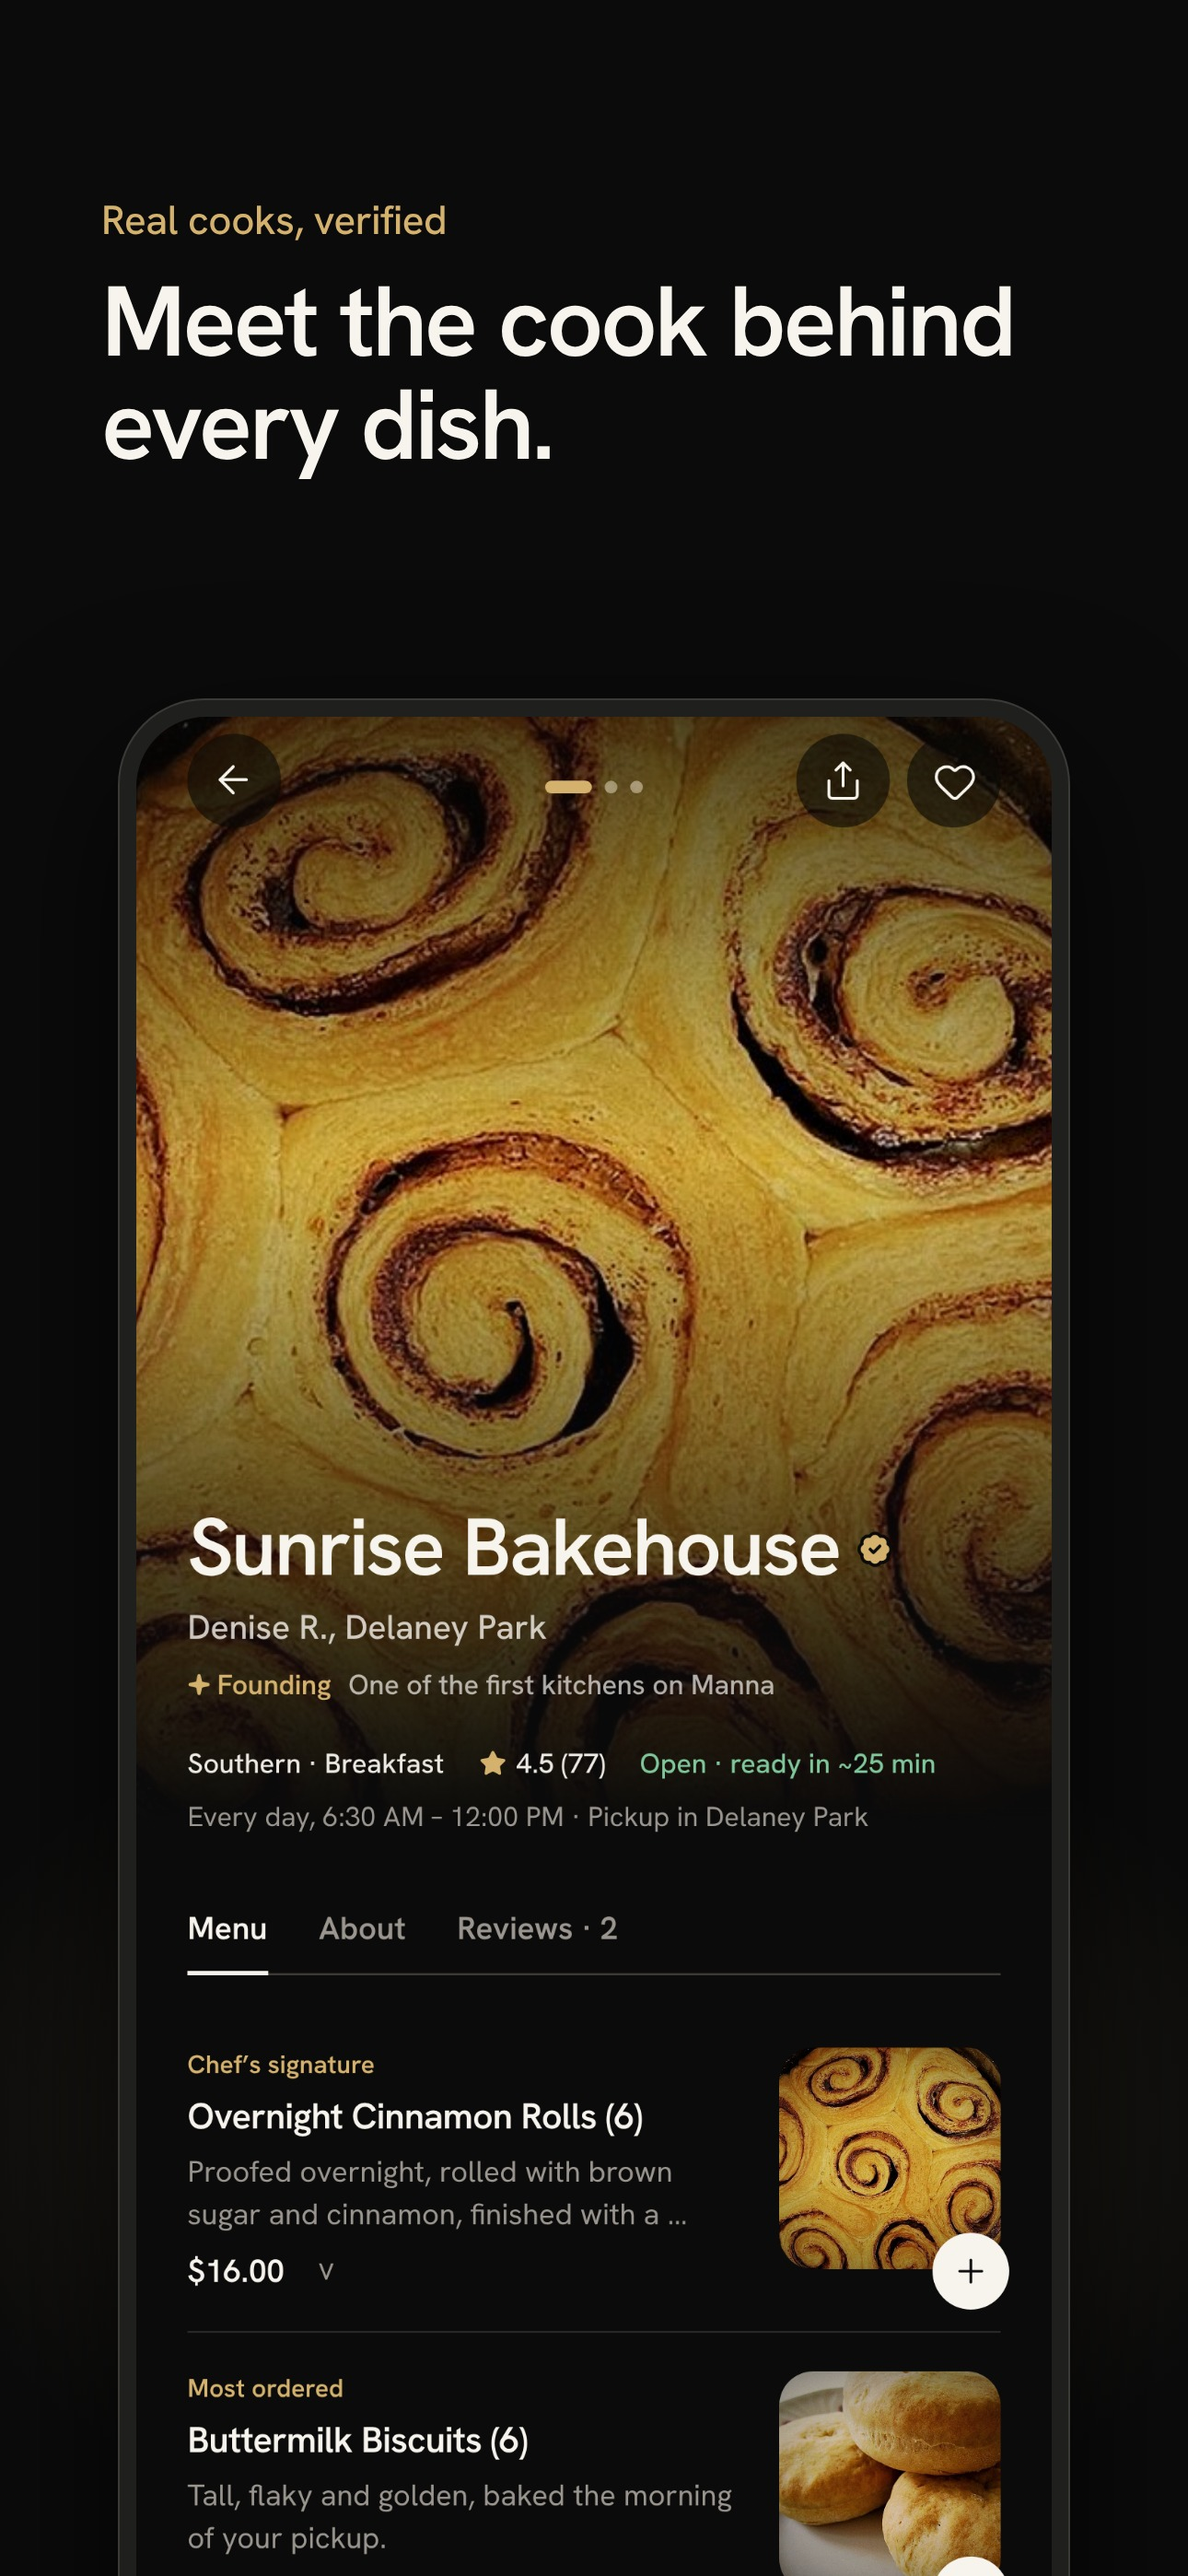
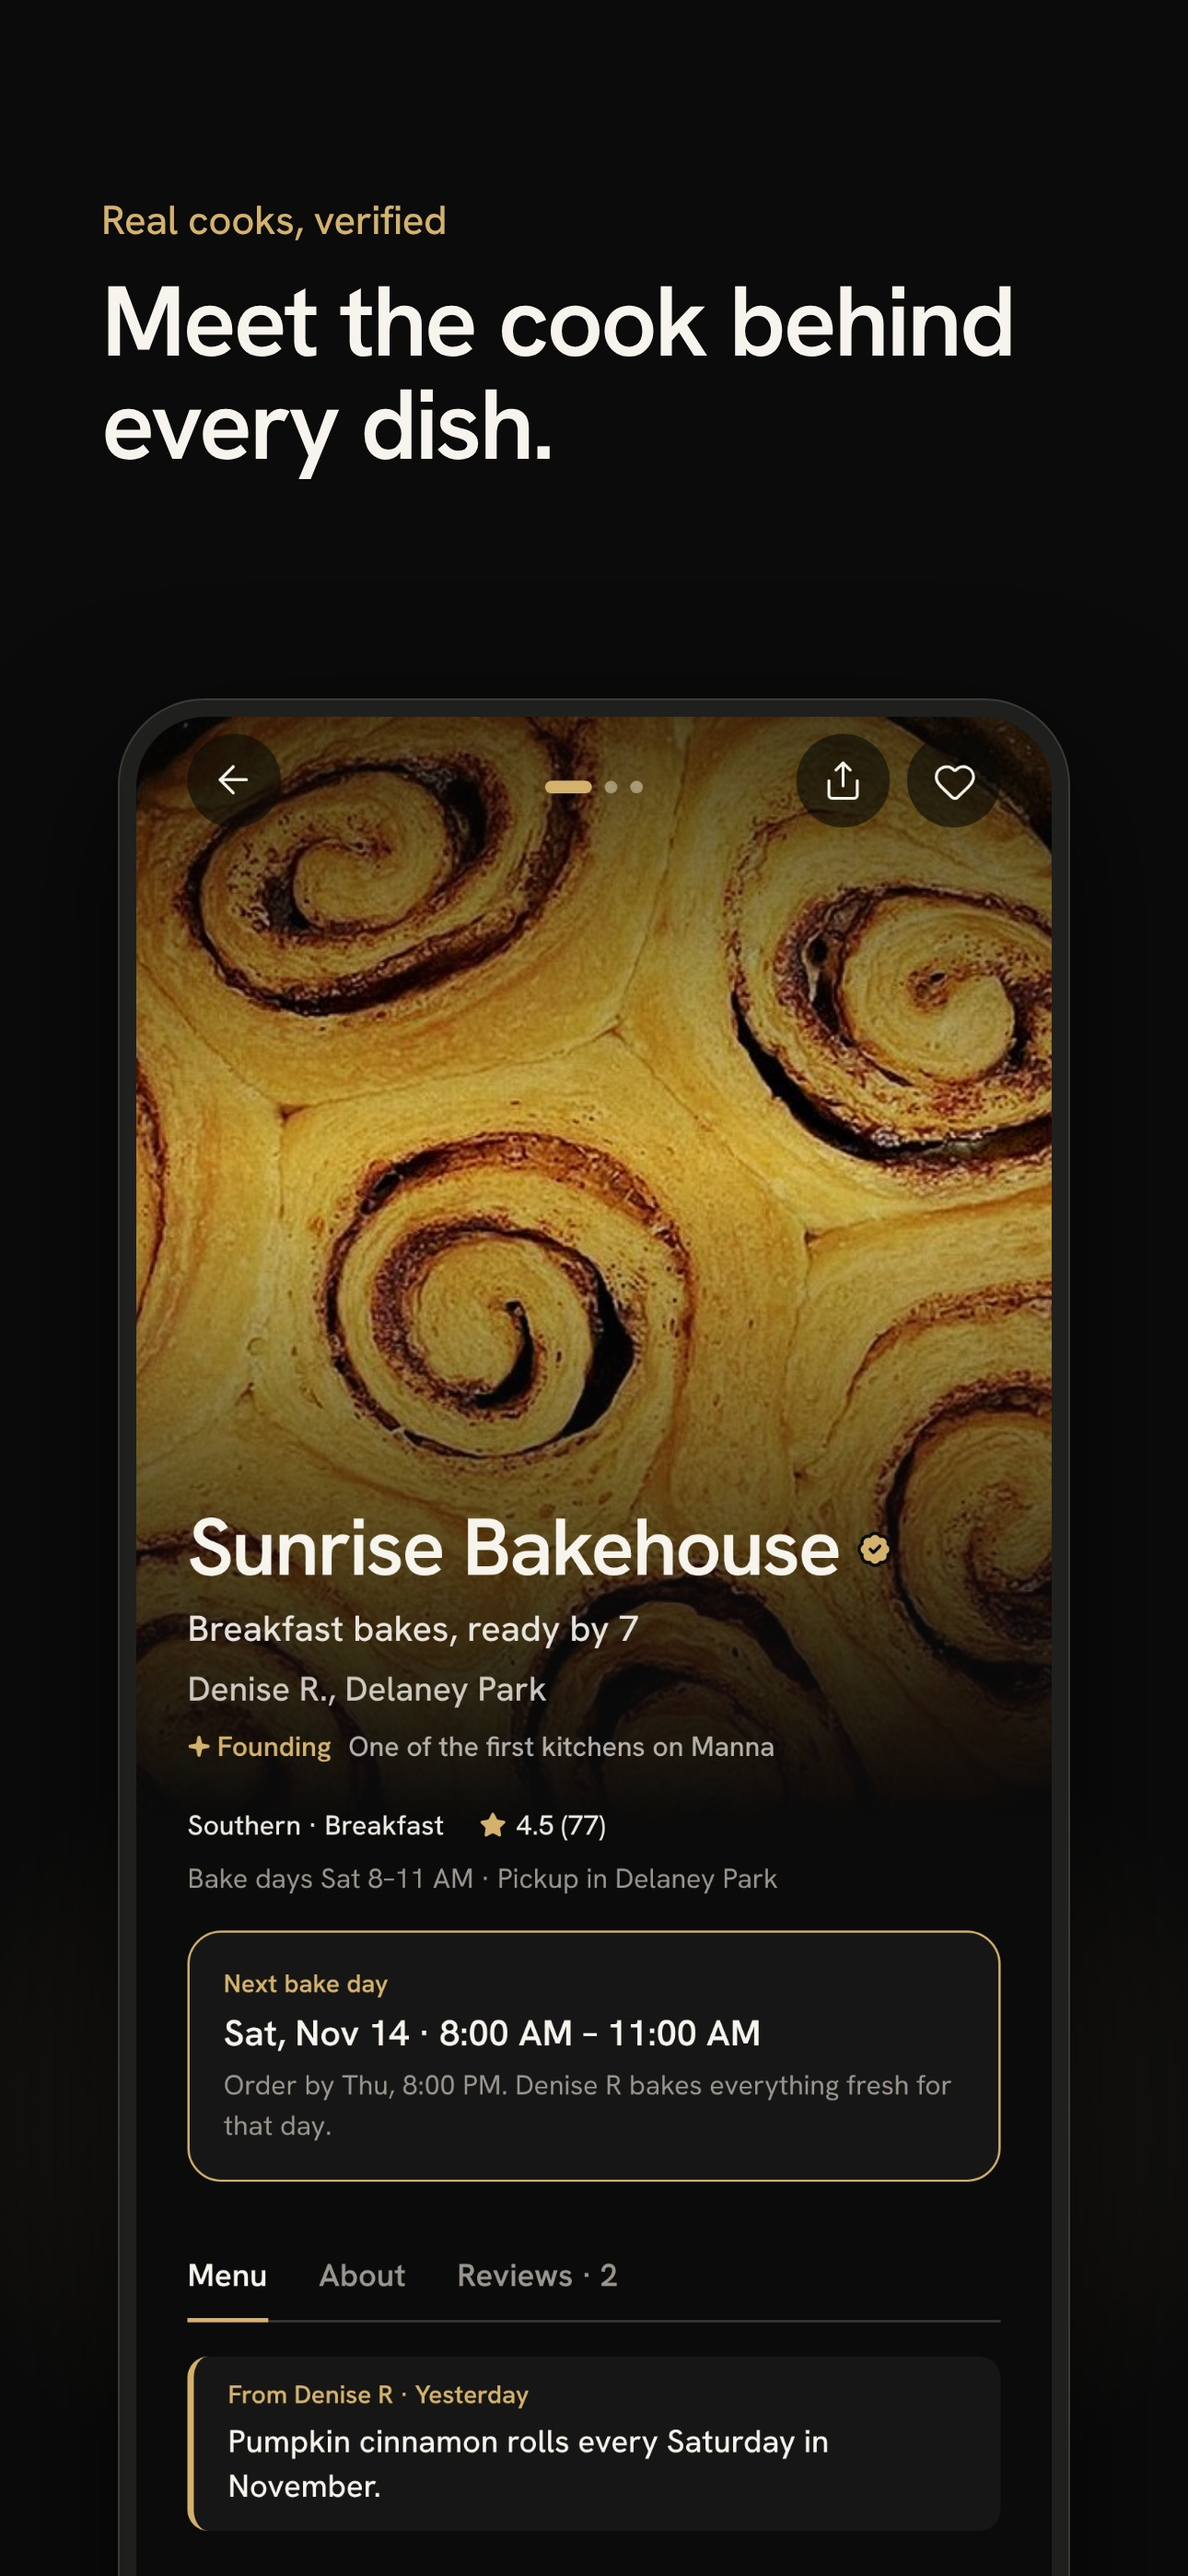
Store listing and screenshots: bake days and personalized kitchens
Claude-Session: https://claude.ai/code/session_011wALiCWwyWzSnWzUUk7f3D

Changed region(s): [[0.155, 0.6223, 0.8682, 1.0], [0.4961, 0.9335, 0.5271, 0.9646]]

diff --git a/store/capture.js b/store/capture.js
@@ -56,7 +56,7 @@ const NOW = new Date('2026-11-07T10:40:00-05:00'); // A Saturday morning, when m
   await page.mouse.move(215, 600);
   await page.mouse.wheel(0, 900);
   await shot('07-cart-total', 900);
-  await visible(page.getByRole('button', { name: /^(Place order|Schedule pickup)/ })).click();
+  await visible(page.getByRole('button', { name: /^(Place order|Schedule pickup|Order for)/ })).click();
   await page.waitForTimeout(1500);
   // Move the order along so tracking shows progress.
   const url = page.url();
@@ -69,6 +69,11 @@ const NOW = new Date('2026-11-07T10:40:00-05:00'); // A Saturday morning, when m
     o.statusHistory = [{ status: 'placed', at: t(26) }, { status: 'accepted', at: t(24) }, { status: 'preparing', at: t(18) }];
     o.chefNote = 'Rolls are proofing now. Frosting goes on warm!';
     o.estimatedReadyAt = new Date(now + 12 * 60000).toISOString();
+    // Show this morning's bake-day window rather than next week's.
+    if (o.pickupBy) {
+      o.scheduledFor = new Date(now - 160 * 60000).toISOString();
+      o.pickupBy = new Date(now + 20 * 60000).toISOString();
+    }
     localStorage.setItem('manna/state/v1', JSON.stringify(st));
   }, NOW.getTime());
   await page.goto(url.replace(/[?&]celebrate=1/, ''));

diff --git a/docs/APP_STORE.md b/docs/APP_STORE.md
@@ -36,13 +36,16 @@ FOR FOOD LOVERS
 • Discover home kitchens near you, starting in College Park, Orlando
 • Meet the cook behind every dish and read their story
 • See ingredients and allergens before you order, and filter by diet
-• Order ahead, choose a pickup time, and follow your order from oven to pickup
+• Order ahead for a cook's bake day, or pick up as soon as it's ready
+• Follow your order from oven to pickup, then tap "I'm here" when you arrive
 • Pay upfront in the app. No DMs, no Venmo requests, no guessing
 • One 5% fee at checkout. Cooks keep every dollar of their prices, and every tip
 
 FOR HOME COOKS
 • Turn your kitchen into a storefront in minutes
-• Get paid upfront, and set your own hours, prices and daily limits so you never oversell
+• Bake days: take orders all week, bake in one batch, hand off in one pickup window
+• Get paid upfront, and set your own prices and daily limits so you never oversell
+• Make your page yours: accent color, tagline, a pinned update and your Instagram
 • Today's menu: turn dishes on and off as you sell out
 • A prep list that tells you what to bake today
 • A ready-to-post Instagram Story with your QR code, so your followers can order in one tap
